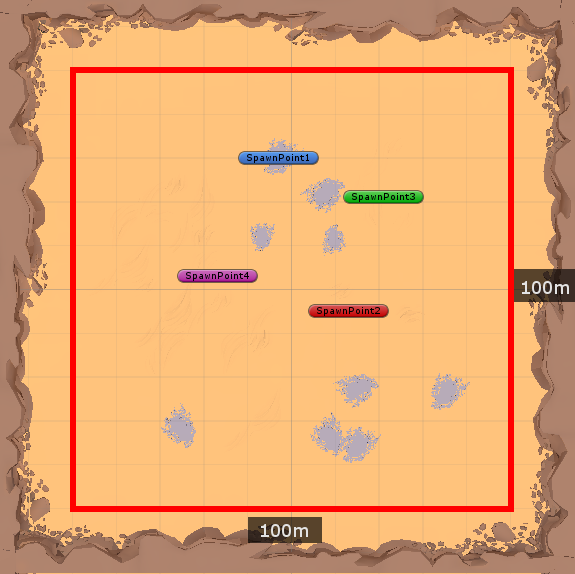
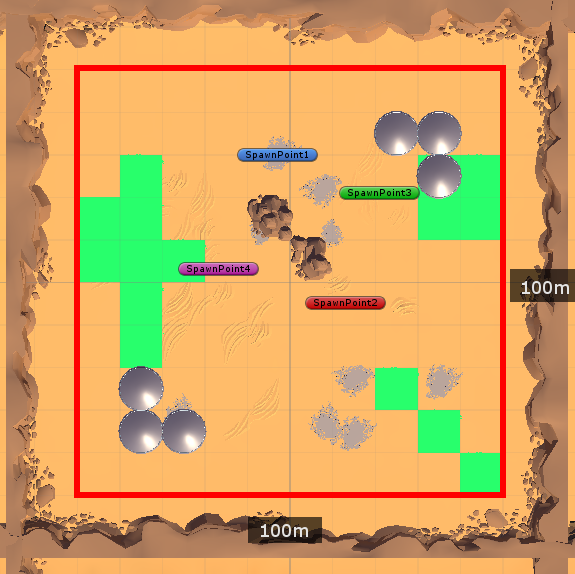
Added goo and obstacles to documentation

diff --git a/API.md b/API.md
@@ -32,12 +32,12 @@ are met.
 when one of the following is met:  
   - The enemy tank is in the view of the tank cannon.  
     - The field-of-view (FOV) for the tank cannon is 90 degrees.
-    - The vision distance limit is 300m.
+    - The vision distance limit is 50m.
   - The enemy tank has fired within 1500m of your tank.  
   - The enemy tank has been defeated.
 - The last known tank _direction_ value is changed when one of the following is met:  
   - Any of the conditions for updating the last known position and forward of a tank.
-  - The enemy tank is moving (not turning) within a 200m radius.  
+  - The enemy tank is moving (not turning) within a 30m radius.  
 - The last known cannon _forward_ value is changed when one of the following is met:
   - Any of the conditions for updating the last known position and forward of a tank.
   - The enemy tank has fired within 1500m of your tank.

diff --git a/GAME-RULES.md b/GAME-RULES.md
@@ -44,7 +44,7 @@ All players will be dropped from the server and the level will be reloaded.
 #### Cannon
 - Turn Speed: 1 _degrees/second_
 
-### Bullet
+### Shell
 
 - Dimensions (LxHxW)
   - 0.3m x 0.3m x 0.55m
@@ -63,5 +63,9 @@ All players will be dropped from the server and the level will be reloaded.
     - Dimensions
         - 10m x 10m
     - Types
-        - Damage Over Time (DOT) field
+        - Goo
+            - Effect: Slowing field
+                - 0.2x Tank Turn Speed
+                - 0.3x Move Speed
         - Obstacle
+            - Effect: Blocks Tank Vision, Tanks, and Shells
